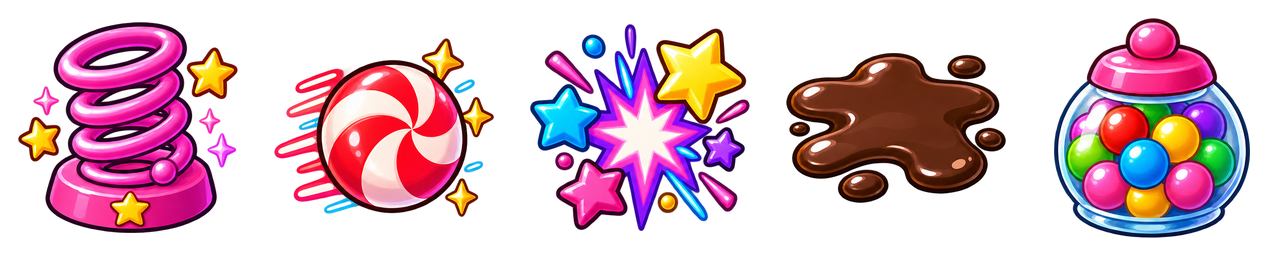
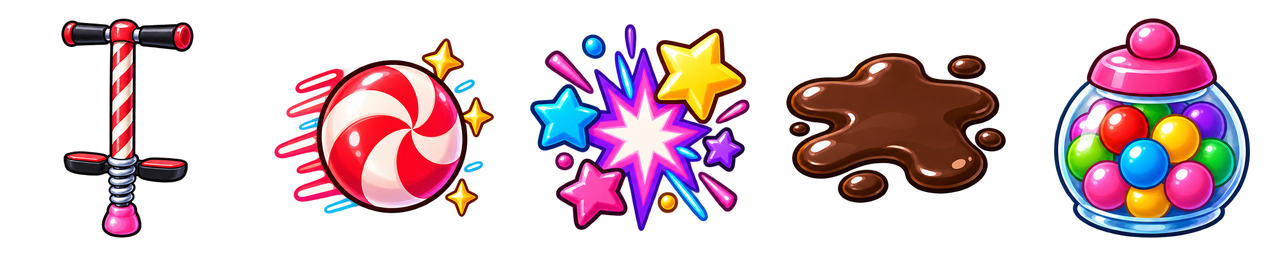
Deliver four themed skate and pogo pickups; exact-cell asset and browser checks passed

Changed region(s): [[0.0, 0.0625, 0.1875, 0.9375]]

diff --git a/americangirldollrace/index.html b/americangirldollrace/index.html
@@ -21,7 +21,7 @@
     <link rel="preload" as="image" href="assets/ui/title_hero_lily.webp" fetchpriority="high">
     <link rel="preload" as="image" href="assets/ui/title_hero_rumi.webp" fetchpriority="high">
     <link rel="preload" as="image" href="assets/ui/title_hero_kaya.webp" fetchpriority="high">
-    <link rel="stylesheet" href="styles.css?v=20261021-toy-trial-sync-pool-spring-sync">
+    <link rel="stylesheet" href="styles.css?v=20261021-toy-icons-pool-spring-sync">
   </head>
   <body>
     <main class="shell">
@@ -303,18 +303,18 @@
       </section>
     </main>
     <div id="barsHint" hidden><span class="bars-arrow" aria-hidden="true">↑</span> Swipe up to hide Safari’s bars · or Share → Add to Home Screen</div>
-    <script src="config.js?v=20261021-toy-trial-sync-pool-spring-sync"></script>
-    <script src="tracks.js?v=20261021-toy-trial-sync-pool-spring-sync"></script>
-    <script src="assets/audio/manifest.js?v=20261021-toy-trial-sync-pool-spring-sync"></script>
-    <script src="audio.js?v=20261021-toy-trial-sync-pool-spring-sync"></script>
-    <script src="recolor.js?v=20261021-toy-trial-sync-pool-spring-sync"></script>
-    <script src="dolls.js?v=20261021-toy-trial-sync-pool-spring-sync"></script>
-    <script src="outfits.js?v=20261021-toy-trial-sync-pool-spring-sync"></script>
-    <script src="mounts.js?v=20261021-toy-trial-sync-pool-spring-sync"></script>
-    <script src="broom.js?v=20261021-toy-trial-sync-pool-spring-sync"></script>
-    <script src="troll-art.js?v=20261021-toy-trial-sync-pool-spring-sync"></script>
-    <script src="game.js?v=20261021-toy-trial-sync-pool-spring-sync"></script>
-    <script src="menu.js?v=20261021-toy-trial-sync-pool-spring-sync"></script>
-    <script src="chrome.js?v=20261021-toy-trial-sync-pool-spring-sync"></script>
+    <script src="config.js?v=20261021-toy-icons-pool-spring-sync"></script>
+    <script src="tracks.js?v=20261021-toy-icons-pool-spring-sync"></script>
+    <script src="assets/audio/manifest.js?v=20261021-toy-icons-pool-spring-sync"></script>
+    <script src="audio.js?v=20261021-toy-icons-pool-spring-sync"></script>
+    <script src="recolor.js?v=20261021-toy-icons-pool-spring-sync"></script>
+    <script src="dolls.js?v=20261021-toy-icons-pool-spring-sync"></script>
+    <script src="outfits.js?v=20261021-toy-icons-pool-spring-sync"></script>
+    <script src="mounts.js?v=20261021-toy-icons-pool-spring-sync"></script>
+    <script src="broom.js?v=20261021-toy-icons-pool-spring-sync"></script>
+    <script src="troll-art.js?v=20261021-toy-icons-pool-spring-sync"></script>
+    <script src="game.js?v=20261021-toy-icons-pool-spring-sync"></script>
+    <script src="menu.js?v=20261021-toy-icons-pool-spring-sync"></script>
+    <script src="chrome.js?v=20261021-toy-icons-pool-spring-sync"></script>
   </body>
 </html>

diff --git a/americangirldollrace/tracks.js b/americangirldollrace/tracks.js
@@ -198,17 +198,19 @@ window.TRACK_THEMES = {
     standInBackground: "farm"
   },
   toyroom: {
+    rideToys: {jump: "pogo"},
     oilEffect: "sticky",
     name: "Toy Room", music: "assets/music/Little Toy-Box.mp3", dirtTop: 481, loopMode: "repeat", art: ["background", "card", "powerups", "projectile", "hurdle"],
-    labels: { jump: "JACK-IN-THE-BOX", boost: "WIND-UP KEY", emp: "TOY DRUM", oil: "SPILLED JUICE", snowball: "MARSHMALLOWS" },
+    labels: { jump: "POGO", boost: "WIND-UP KEY", emp: "TOY DRUM", oil: "SPILLED JUICE", snowball: "MARSHMALLOWS" },
     sounds: { emp: "pickup_toy_drum", jump: "pickup_jack_in_box" },
     baseMount: "rocking_horse",
     mountOdds: { unicorn: 0.1, pegasus: 0.1, griffon: 0.05, broom: 0.05 }
   },
   candy: {
+    rideToys: {jump: "pogo"},
     oilEffect: "sticky",
     name: "Candy Land", dirtTop: 517, loopMode: "repeat", art: ["background", "card", "powerups", "projectile", "hurdle"],
-    labels: { jump: "GUMDROP", boost: "PEPPERMINT", emp: "POP ROCKS", oil: "CHOCOLATE", snowball: "GUMBALLS" },
+    labels: { jump: "POGO", boost: "PEPPERMINT", emp: "POP ROCKS", oil: "CHOCOLATE", snowball: "GUMBALLS" },
     sounds: { emp: "pickup_pop_rocks" },
     mountOdds: { unicorn: 0.2, pegasus: 0.1, griffon: 0.05, broom: 0.05 }
   },
@@ -255,9 +257,10 @@ window.TRACK_THEMES = {
     mountOdds: { unicorn: 0.2, pegasus: 0.15, griffon: 0.05, broom: 0.05 }
   },
   festival: {
+    rideToys: {boost: "skates", jump: "pogo"},
     oilEffect: "sticky",
     name: "Night Festival", music: "assets/music/One More Spin at the Night Festival.mp3", dirtTop: 513, loopMode: "repeat", art: ["background", "card", "powerups", "projectile", "hurdle"],
-    labels: { jump: "TRAMPOLINE", boost: "SPARKLER", emp: "FIREWORK", oil: "SPILLED SODA", snowball: "WATER BALLOONS" },
+    labels: { jump: "POGO", boost: "SKATES", emp: "FIREWORK", oil: "SPILLED SODA", snowball: "WATER BALLOONS" },
     sounds: { emp: "firework_burst", boost: "pickup_sparkler" },
     mountOdds: { carousel_horse: 0.25, unicorn: 0.1, pegasus: 0.1, griffon: 0.05, broom: 0.05 }
   }

diff --git a/americangirldollrace/tools/tracks/build.py b/americangirldollrace/tools/tracks/build.py
@@ -102,6 +102,14 @@ def loop_background(key):
     return ImageChops.offset(repaired, -1086, 0)
 
 
+def verify_toy_icon_cells(key,sheet):
+    path=HERE/'toy-icons/verification.json'
+    records=json.loads(path.read_text()) if path.exists() else {}
+    for cell,expected in records.get(key,{}).get('cellSha256',{}).items():
+        x=int(cell)*256
+        assert hashlib.sha256(sheet.crop((x,0,x+256,256)).tobytes()).hexdigest()==expected,(key,'Pickup cell differs from reviewed image',cell)
+
+
 def verify_puddle_cells(key, sheet):
     path = HERE/'puddle-redos/verification.json'
     records = json.loads(path.read_text()) if path.exists() else {}
@@ -136,6 +144,8 @@ def export_track(key, kind):
         cells=atlas_cells(im)
         for n in range(5):
             result.alpha_composite(icon(cells[n],(256,256),(220,220)),(n*256,0))
+        base = HERE/'toy-icons'/f'{key}-before.webp'
+        if base.exists(): result = Image.open(base).convert('RGBA')
         blank = cells[5]
         assert (np.asarray(blank.getchannel('A'))>8).mean() < .005, 'Sixth source cell must be empty'
         # Requested puddle redos replace the entire oil cell, including empty
@@ -147,14 +157,16 @@ def export_track(key, kind):
             result = Image.open(HERE/'puddle-redos/base-sheets'/f'{key}.webp').convert('RGBA')
             replacement = icon(clean(Image.open(puddle_path)), (256,256), (220,160))
             result.paste(replacement, (768,0))
-            jump_path = folder/'jump-icon.webp'
-            if jump_path.exists():
-                result.paste(icon(clean(Image.open(jump_path)), (256,256), (220,220)), (0,0))
-            verify_puddle_cells(key, result)
+        for name,cell in [('jump',0),('boost',1)]:
+            replacement = folder/f'{name}-icon.webp'
+            if replacement.exists():
+                result.paste(icon(clean(Image.open(replacement)),(256,256),(220,220)),(cell*256,0))
+        if puddle_path.exists(): verify_puddle_cells(key,result)
+        verify_toy_icon_cells(key,result)
     else:
         result = ImageOps.fit(Image.open(path).convert('RGB'),SIZES[kind],method=Image.Resampling.LANCZOS)
     target = GAME/'assets/tracks'/key/f'{kind}.webp'
-    save(result,target,exact=kind == 'powerups' and (folder/'oil-puddle.webp').exists())
+    save(result,target,exact=kind == 'powerups')
     if kind == 'powerups' and (folder/'oil-puddle.webp').exists():
         verify_puddle_cells(key, Image.open(target).convert('RGBA'))
     return target
@@ -217,6 +229,7 @@ def check():
                 if kind=='powerups':
                     for n in range(5):assert bounds(im.crop((n*256,0,n*256+256,256))),path
                     verify_puddle_cells(key, im)
+                    verify_toy_icon_cells(key, im)
             count+=1
     for key in MOUNTS:
         meta=json.loads((GAME/f'tools/mounts/{key}.json').read_text());path=GAME/meta['asset'];im=Image.open(path).convert('RGBA')

diff --git a/americangirldollrace/image-requests.md b/americangirldollrace/image-requests.md
@@ -202,8 +202,7 @@ Sizes are final pixel sizes. The game scales art down but never up.
 > Beach's R8 jump cell is now a pool-ring spring, with its new POOL SPRING label.
 > **Still open:** the §10 new-item art (actions sheets, frogs, wave, wind-up
 > cars), the remaining twelve §8 riding-toy dolls (Lily, Mira and Hermione
-> trial delivered with twelve poses and outfit masks), the §8.1 skate and
-> pogo icons R10 and R12–R14, and the §9 track monsters
+> trial delivered with twelve poses and outfit masks), the §9 track monsters
 > (scarecrow and skeleton sheets).
 
 Every track uses the same white picket hurdle and the same power-up icons
@@ -401,6 +400,10 @@ Once a doll's K1 and K2 are in, add her key to `RIDE_TOY_SHEETS` in
 | 4 | Pogo stick | (1) **Balancing** upright on the stick, tip on the baseline; (2) **pushing / throwing** with one hand off the handlebar, thrust forward; (3) **falling backwards** off the stick, which tips away from her. |
 
 ### 8.1 Pickup icons for the tracks that get skates or a pogo stick
+
+**Delivered:** R10 and R12–R14. Beach surfboard and Toy Room wind-up key
+remain in use for their dedicated §10 behaviours. The two extra skate
+concepts in the generation source are experimental and are not installed.
 
 Village already shows skates (speed) and a pogo stick (high jump). These
 tracks get them too. Repaint only the named cell of

diff --git a/americangirldollrace/tools/tracks/toy-icons/README.md b/americangirldollrace/tools/tracks/toy-icons/README.md
@@ -1,0 +1,10 @@
+# Riding-toy pickup replacements
+
+Delivered R10, R12, R13 and R14. Source and prompt include two experimental
+skate variants for Beach and Toy Room; the updated brief keeps those tracks'
+surfboard and wind-up key, so only the other four cells are installed.
+
+Each delivered 256px cell is replaced in the previously delivered full strip,
+then saved with lossless WebP exact=True. `verification.json` records decoded
+RGBA for all five cells; untouched cells match the before sheets byte for byte.
+The standard track exporter reapplies the reviewed sources and checks them.
